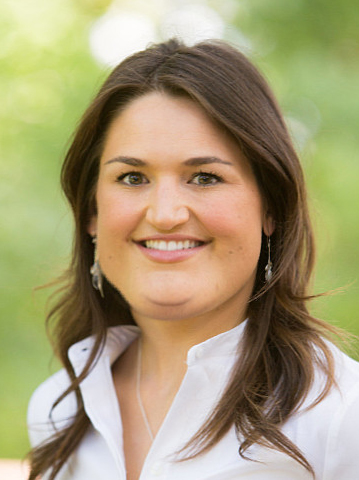
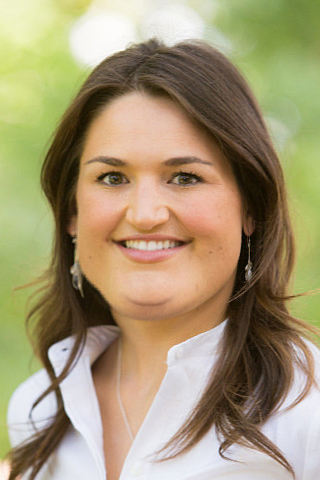
cropped all resume photos to a 2x3 ratio in Photoshop and then set static width=310px and height=465px for the resumes photos

diff --git a/experiment/src/resumes/NW_F_JaneConner_template.php b/experiment/src/resumes/NW_F_JaneConner_template.php
@@ -1,6 +1,6 @@
 <br />
 <center>
-  <img src="../stimuli/NW_F_JaneConner.jpg" />
+  <img src="../stimuli/NW_F_JaneConner.jpg" width="310px" height="465px" />
 </center>
 <center>
   <h1>JANE CONNER</h1>

diff --git a/experiment/src/resumes/NW_M_JohnCurtis_template.php b/experiment/src/resumes/NW_M_JohnCurtis_template.php
@@ -1,6 +1,6 @@
 <br />
 <center>
-  <img src="../stimuli/NW_M_JohnCurtis.jpg" />
+  <img src="../stimuli/NW_M_JohnCurtis.jpg" width="310px" height="465px" />
 </center>
 <center>
   <h1>JOHN CURTIS</h1>

diff --git a/experiment/src/resumes/OW_F_JillCarter_template.php b/experiment/src/resumes/OW_F_JillCarter_template.php
@@ -1,6 +1,6 @@
 <br />
 <center>
-  <img src="../stimuli/OW_F_JillCarter.jpg" />
+  <img src="../stimuli/OW_F_JillCarter.jpg" width="310px" height="465px" />
 </center>
 <center>
   <h1>JILL CARTER</h1>

diff --git a/experiment/src/resumes/OW_M_JakeCooper_template.php b/experiment/src/resumes/OW_M_JakeCooper_template.php
@@ -1,6 +1,6 @@
 <br />
 <center>
-  <img src="../stimuli/OW_M_JakeCooper.jpg" />
+  <img src="../stimuli/OW_M_JakeCooper.jpg" width="310px" height="465px" />
 </center>
 <center>
   <h1>JAKE COOPER</h1>
